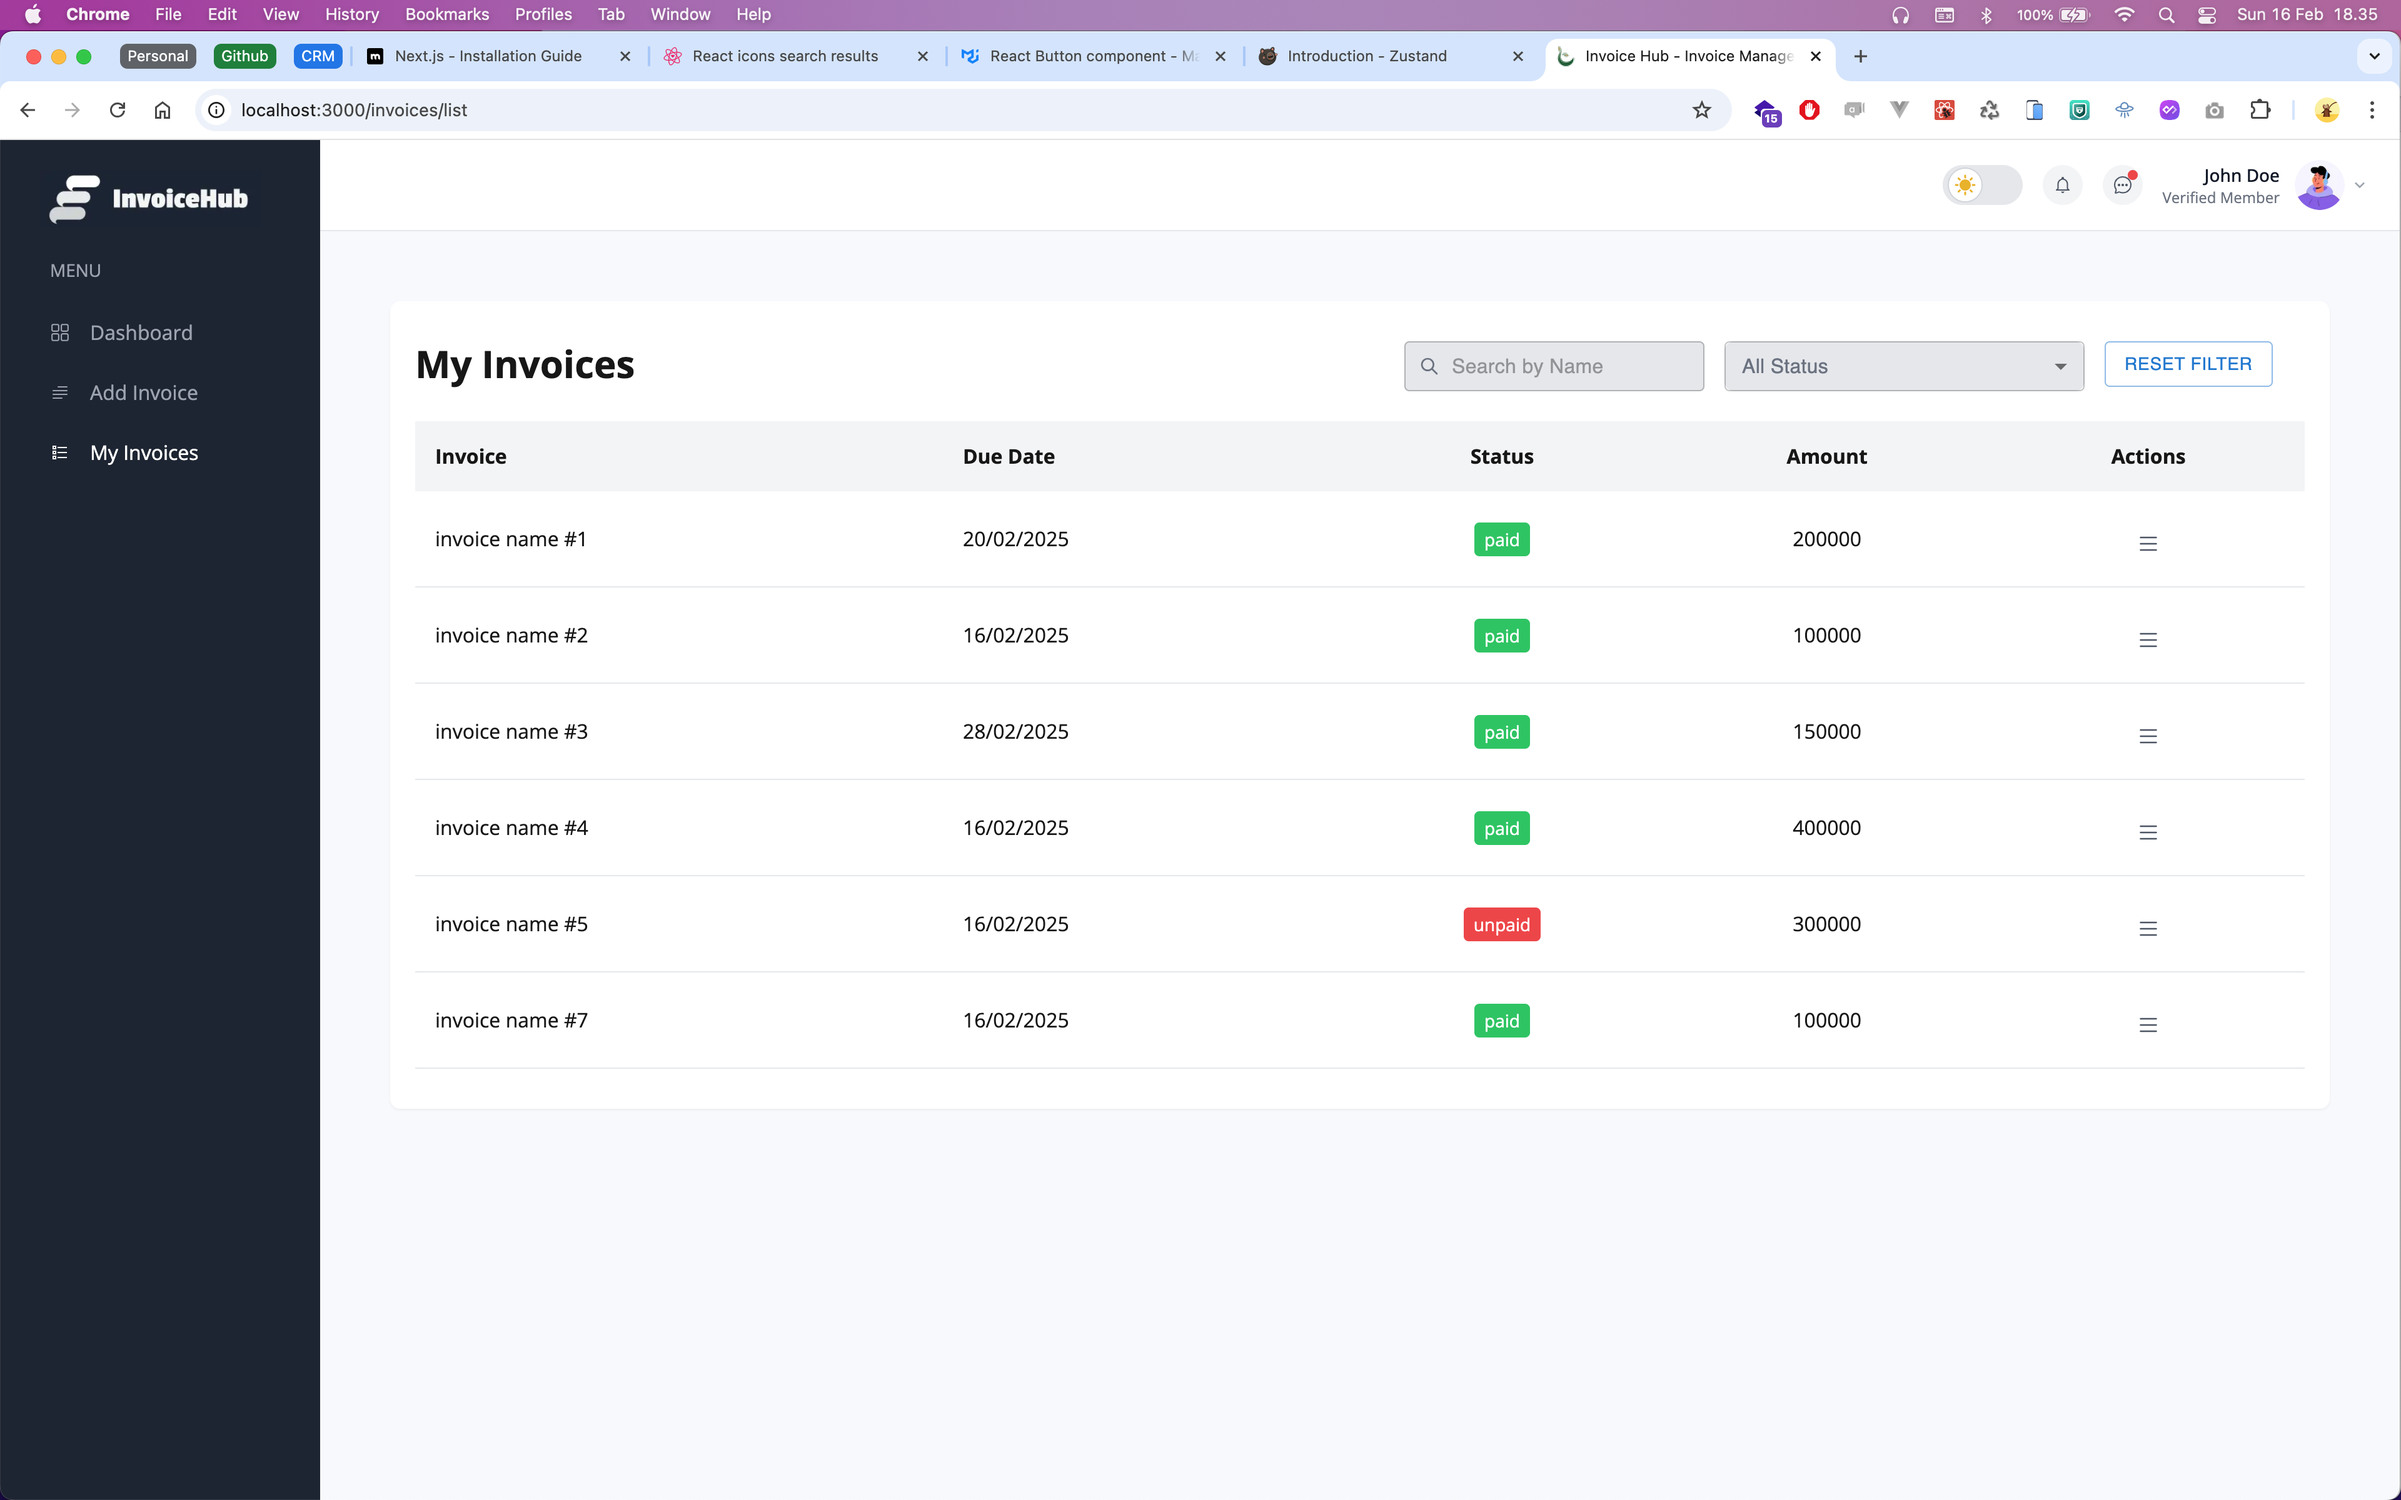
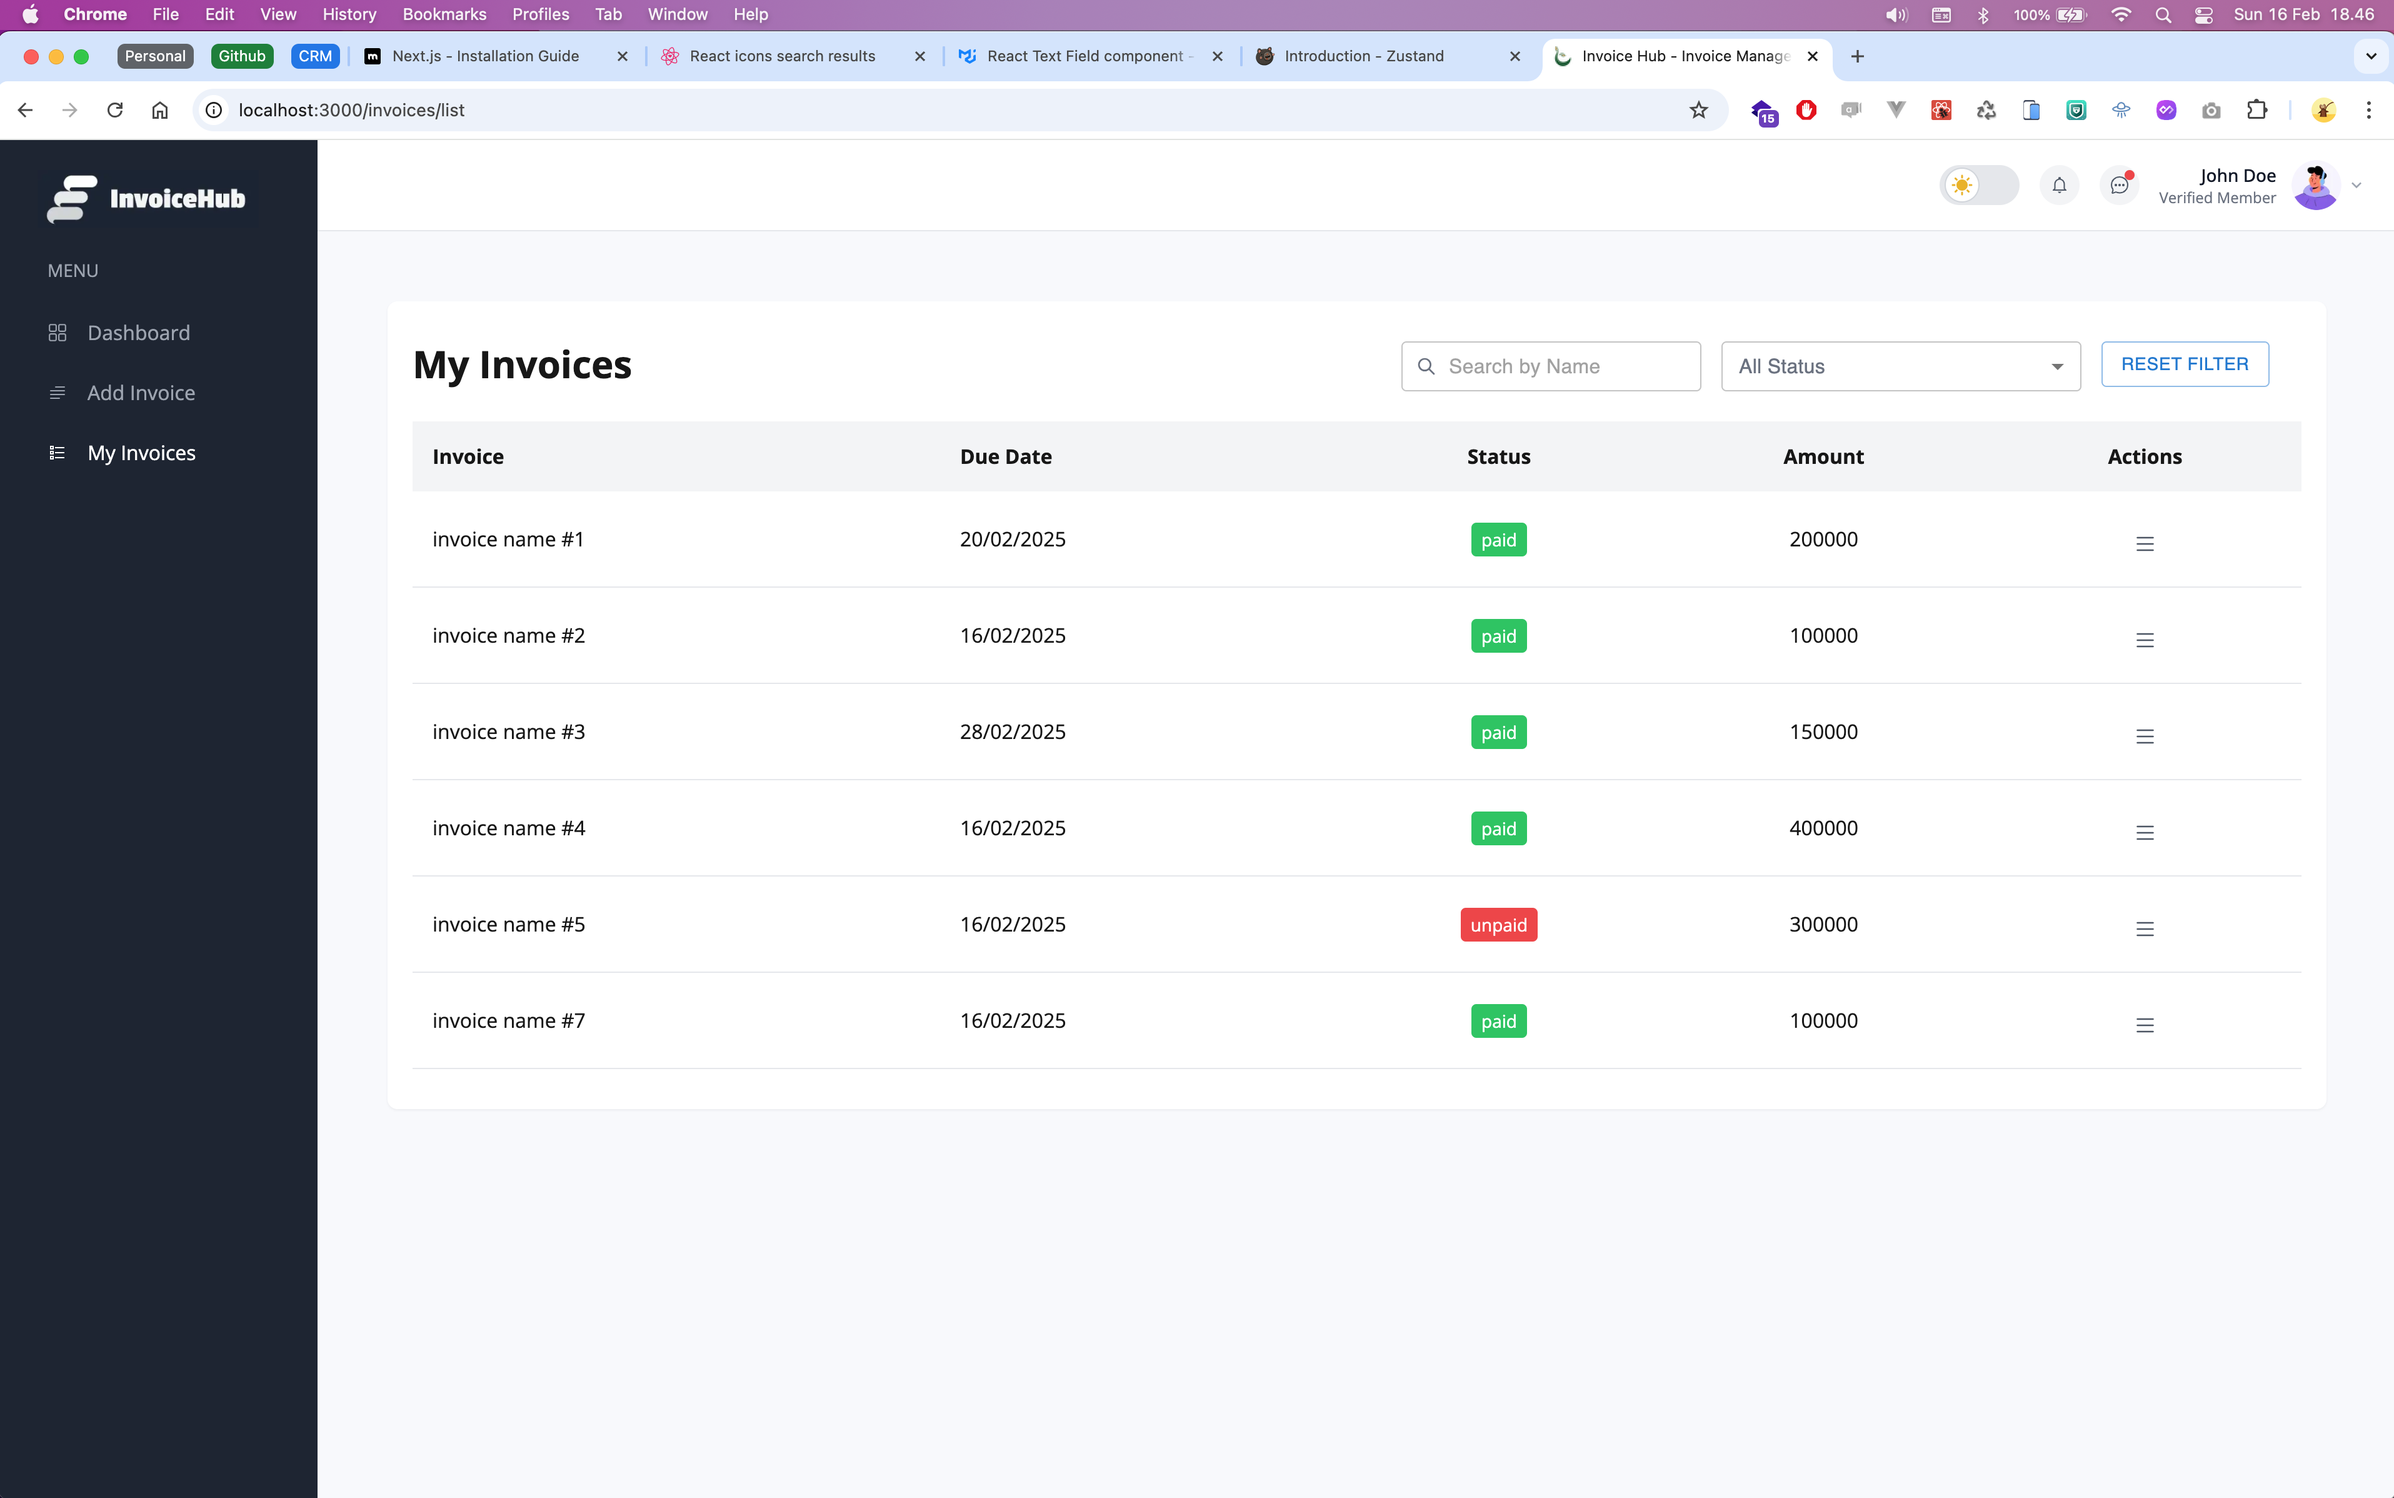
feat: updated README.md

diff --git a/src/app/components/molecules/InvoiceSearch/index.tsx b/src/app/components/molecules/InvoiceSearch/index.tsx
@@ -58,7 +58,7 @@ const InvoiceSearch: React.FC = () => {
               type="text"
               size="small"
               fullWidth
-              className="pl-6 bg-gray-200"
+              className="pl-6 bg-white"
               value={inputValue}
               onChange={(e) => setInputValue(e.target.value)}
               onKeyDown={handleSearchEnter}
@@ -66,12 +66,12 @@ const InvoiceSearch: React.FC = () => {
           </div>
         </div>
 
-        <div className="w-72 rounded-lg bg-gray-200">
+        <div className="w-72 rounded-lg">
           <Select
             id="status-search"
             fullWidth
             size="small"
-            className="text-gray-500"
+            className="text-gray-500 bg-white"
             displayEmpty
             value={searchStatus}
             onChange={(e) => setSearchStatus(e.target.value)}
